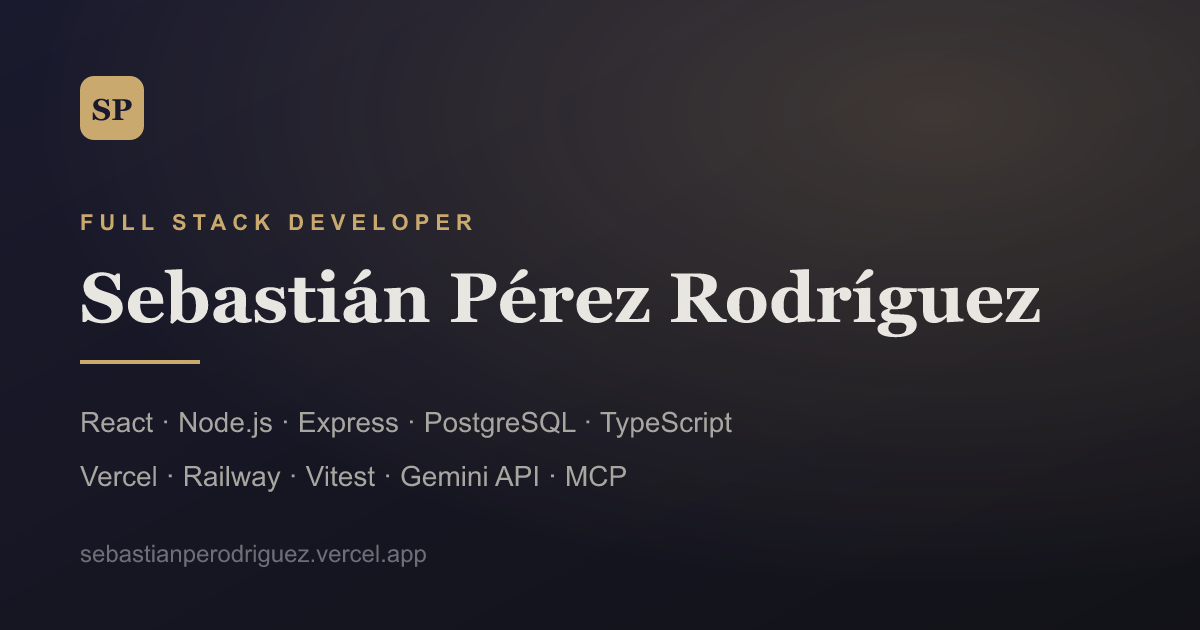
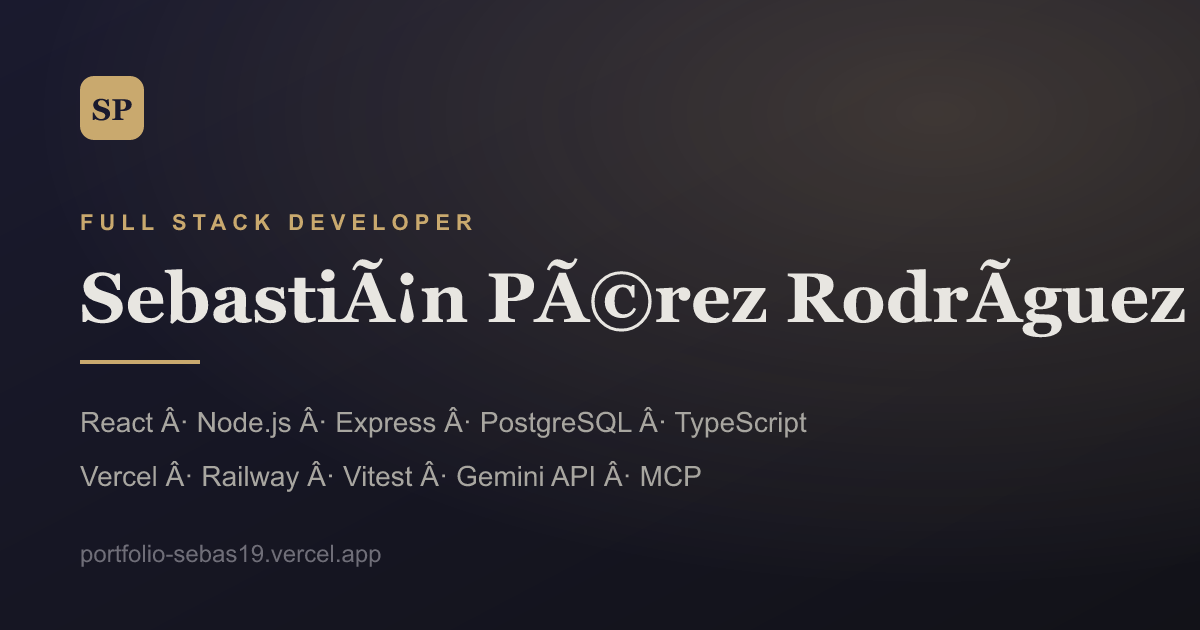
chore: actualizar URLs canonicas al dominio real de Vercel

diff --git a/index.html b/index.html
@@ -6,30 +6,30 @@
   <link rel="icon" type="image/svg+xml" href="/favicon.svg" />
   <meta name="viewport" content="width=device-width, initial-scale=1.0" />
 
-  <title>Sebastián Pérez Rodríguez — Full Stack Developer</title>
+  <title>SebastiÃ¡n PÃ©rez RodrÃguez â€” Full Stack Developer</title>
   <meta name="description"
-    content="Sebastián Pérez Rodríguez, Full Stack Developer. React, Node.js, Express y PostgreSQL. Proyectos de wallet digital, chatbots con IA y gestión de tareas en la nube. Disponible para nuevas oportunidades." />
-  <meta name="author" content="Sebastián Pérez Rodríguez" />
+    content="SebastiÃ¡n PÃ©rez RodrÃguez, Full Stack Developer. React, Node.js, Express y PostgreSQL. Proyectos de wallet digital, chatbots con IA y gestiÃ³n de tareas en la nube. Disponible para nuevas oportunidades." />
+  <meta name="author" content="SebastiÃ¡n PÃ©rez RodrÃguez" />
   <meta name="theme-color" content="#1a1a2e" media="(prefers-color-scheme: light)" />
   <meta name="theme-color" content="#121218" media="(prefers-color-scheme: dark)" />
 
-  <link rel="canonical" href="https://sebastianperodriguez.vercel.app/" />
+  <link rel="canonical" href="https://portfolio-sebas19.vercel.app/" />
 
   <meta property="og:type" content="website" />
   <meta property="og:locale" content="es_CO" />
-  <meta property="og:site_name" content="Sebastián Pérez Rodríguez" />
-  <meta property="og:url" content="https://sebastianperodriguez.vercel.app/" />
-  <meta property="og:title" content="Sebastián Pérez Rodríguez — Full Stack Developer" />
+  <meta property="og:site_name" content="SebastiÃ¡n PÃ©rez RodrÃguez" />
+  <meta property="og:url" content="https://portfolio-sebas19.vercel.app/" />
+  <meta property="og:title" content="SebastiÃ¡n PÃ©rez RodrÃguez â€” Full Stack Developer" />
   <meta property="og:description" content="Construyo productos web completos: modelado de datos, API, interfaz y despliegue. React, Node.js, Express y PostgreSQL." />
-  <meta property="og:image" content="https://sebastianperodriguez.vercel.app/og-image.png" />
+  <meta property="og:image" content="https://portfolio-sebas19.vercel.app/og-image.png" />
   <meta property="og:image:width" content="1200" />
   <meta property="og:image:height" content="630" />
-  <meta property="og:image:alt" content="Sebastián Pérez Rodríguez — Full Stack Developer" />
+  <meta property="og:image:alt" content="SebastiÃ¡n PÃ©rez RodrÃguez â€” Full Stack Developer" />
 
   <meta name="twitter:card" content="summary_large_image" />
-  <meta name="twitter:title" content="Sebastián Pérez Rodríguez — Full Stack Developer" />
+  <meta name="twitter:title" content="SebastiÃ¡n PÃ©rez RodrÃguez â€” Full Stack Developer" />
   <meta name="twitter:description" content="Construyo productos web completos: modelado de datos, API, interfaz y despliegue." />
-  <meta name="twitter:image" content="https://sebastianperodriguez.vercel.app/og-image.png" />
+  <meta name="twitter:image" content="https://portfolio-sebas19.vercel.app/og-image.png" />
 
   <link rel="preconnect" href="https://fonts.googleapis.com" />
   <link rel="preconnect" href="https://fonts.gstatic.com" crossorigin />
@@ -41,14 +41,14 @@
     {
       "@context": "https://schema.org",
       "@type": "Person",
-      "name": "Sebastián Pérez Rodríguez",
+      "name": "SebastiÃ¡n PÃ©rez RodrÃguez",
       "jobTitle": "Full Stack Developer",
-      "url": "https://sebastianperodriguez.vercel.app/",
+      "url": "https://portfolio-sebas19.vercel.app/",
       "email": "mailto:sebastianperodriguez@gmail.com",
-      "image": "https://sebastianperodriguez.vercel.app/og-image.png",
+      "image": "https://portfolio-sebas19.vercel.app/og-image.png",
       "address": {
         "@type": "PostalAddress",
-        "addressLocality": "Bogotá",
+        "addressLocality": "BogotÃ¡",
         "addressCountry": "CO"
       },
       "knowsLanguage": ["es", "en"],

diff --git a/README.md b/README.md
@@ -1,60 +1,60 @@
-# Portafolio — Sebastián Pérez Rodríguez
+# Portafolio â€” SebastiÃ¡n PÃ©rez RodrÃguez
 
 [![CI](https://github.com/sebastianperodriguez/portfolio/actions/workflows/ci.yml/badge.svg)](https://github.com/sebastianperodriguez/portfolio/actions/workflows/ci.yml)
-[![Deploy](https://img.shields.io/badge/deploy-Vercel-000000?logo=vercel&logoColor=white)](https://sebastianperodriguez.vercel.app)
+[![Deploy](https://img.shields.io/badge/deploy-Vercel-000000?logo=vercel&logoColor=white)](https://portfolio-sebas19.vercel.app)
 
-Portafolio personal de **Sebastián Pérez Rodríguez**, Full Stack Developer.
-Sitio estático construido con React, showcasing proyectos reales de frontend,
+Portafolio personal de **SebastiÃ¡n PÃ©rez RodrÃguez**, Full Stack Developer.
+Sitio estÃ¡tico construido con React, showcasing proyectos reales de frontend,
 backend e IA, con un CV descargable en formato Harvard.
 
-🌐 **Demo:** https://sebastianperodriguez.vercel.app
-📄 **CV:** https://sebastianperodriguez.vercel.app/cv
+ðŸŒ **Demo:** https://portfolio-sebas19.vercel.app
+ðŸ“„ **CV:** https://portfolio-sebas19.vercel.app/cv
 
 ---
 
 ## Stack
 
-| Capa | Tecnologías |
+| Capa | TecnologÃas |
 |------|-------------|
 | Framework | React 19, React Router 7 |
 | Estilos | Tailwind CSS v4, variables CSS para theming |
-| Animación | Framer Motion |
+| AnimaciÃ³n | Framer Motion |
 | Build | Vite 8 |
 | Calidad | Oxlint, Vitest, Testing Library |
 | Deploy | Vercel |
 
 ## Funcionalidades
 
-- **Modo claro y oscuro** con persistencia en `localStorage` y detección de preferencia del sistema.
-- **CV en formato Harvard** en `/cv`, optimizado para impresión y guardado como PDF (A4).
-- **Navegación móvil** con menú desplegable, indicador de sección activa y barra de progreso de lectura.
+- **Modo claro y oscuro** con persistencia en `localStorage` y detecciÃ³n de preferencia del sistema.
+- **CV en formato Harvard** en `/cv`, optimizado para impresiÃ³n y guardado como PDF (A4).
+- **NavegaciÃ³n mÃ³vil** con menÃº desplegable, indicador de secciÃ³n activa y barra de progreso de lectura.
 - **SEO completo**: Open Graph, Twitter Card, JSON-LD (`schema.org/Person`), `robots.txt` y `sitemap.xml`.
-- **Accesible**: navegación por teclado, `aria-label`, foco visible y respeto a `prefers-reduced-motion`.
-- **Responsive** con diseño mobile-first.
+- **Accesible**: navegaciÃ³n por teclado, `aria-label`, foco visible y respeto a `prefers-reduced-motion`.
+- **Responsive** con diseÃ±o mobile-first.
 
 ## Proyectos destacados
 
-| Proyecto | Descripción | Stack principal |
+| Proyecto | DescripciÃ³n | Stack principal |
 |----------|-------------|-----------------|
 | [Arcoins Wallet](https://arcoinswallet.vercel.app/) | Billetera digital multi-moneda (COP/USD/EUR) con API REST, JWT y asistente de IA | React 19, TypeScript, Express 5, PostgreSQL |
-| [Chat con Pedro Morales Pino](https://chat-pedro-morales-pino-pi-m3.vercel.app) | Chatbot conversacional sobre la tradición musical colombiana | JavaScript, Vite, Gemini API, Vercel Functions |
-| [MateCode — Gestor de Tareas](https://gestor-de-tareas-pi-m4-ijvjqn9z6-sebas19.vercel.app/) | Gestión de tareas con autenticación federada y resúmenes por correo | React 19, TypeScript, Firebase, AWS SES |
+| [Chat con Pedro Morales Pino](https://chat-pedro-morales-pino-pi-m3.vercel.app) | Chatbot conversacional sobre la tradiciÃ³n musical colombiana | JavaScript, Vite, Gemini API, Vercel Functions |
+| [MateCode â€” Gestor de Tareas](https://gestor-de-tareas-pi-m4-ijvjqn9z6-sebas19.vercel.app/) | GestiÃ³n de tareas con autenticaciÃ³n federada y resÃºmenes por correo | React 19, TypeScript, Firebase, AWS SES |
 
 ## Estructura
 
 ```
 src/
-├── components/     # Navbar, Hero, About, Projects, Skills, Contact, Footer, TechChip
-├── data/
-│   └── content.js  # Todo el contenido del sitio en un solo lugar
-├── hooks/
-│   └── useDarkMode.js
-├── pages/
-│   └── CV.jsx      # CV en formato Harvard
-└── index.css       # Tokens de diseño, utilidades y estilos de impresión
+â”œâ”€â”€ components/     # Navbar, Hero, About, Projects, Skills, Contact, Footer, TechChip
+â”œâ”€â”€ data/
+â”‚   â””â”€â”€ content.js  # Todo el contenido del sitio en un solo lugar
+â”œâ”€â”€ hooks/
+â”‚   â””â”€â”€ useDarkMode.js
+â”œâ”€â”€ pages/
+â”‚   â””â”€â”€ CV.jsx      # CV en formato Harvard
+â””â”€â”€ index.css       # Tokens de diseÃ±o, utilidades y estilos de impresiÃ³n
 scripts/
-├── generate-og.mjs # Genera public/og-image.png (1200×630)
-└── screenshot.mjs  # Capturas de verificación con Playwright
+â”œâ”€â”€ generate-og.mjs # Genera public/og-image.png (1200Ã—630)
+â””â”€â”€ screenshot.mjs  # Capturas de verificaciÃ³n con Playwright
 ```
 
 ## Desarrollo local
@@ -63,20 +63,20 @@ scripts/
 npm install
 npm run dev        # servidor de desarrollo
 npm run lint       # oxlint
-npm run build      # build de producción
+npm run build      # build de producciÃ³n
 npm run preview    # previsualizar el build
 npm run og         # regenerar la imagen Open Graph
 ```
 
 ## Despliegue
 
-El proyecto se despliega en **Vercel** con detección automática de Vite
+El proyecto se despliega en **Vercel** con detecciÃ³n automÃ¡tica de Vite
 (`buildCommand: npm run build`, `outputDirectory: dist`). El archivo
 `vercel.json` define las rewrites para el routing de la SPA, las cabeceras de
-cache para los assets con hash y los headers de seguridad básicos.
+cache para los assets con hash y los headers de seguridad bÃ¡sicos.
 
 Cada `push` a `main` dispara el workflow de CI (lint + build) y, con el repositorio
-conectado en Vercel, un despliegue automático.
+conectado en Vercel, un despliegue automÃ¡tico.
 
 ## Contacto
 
